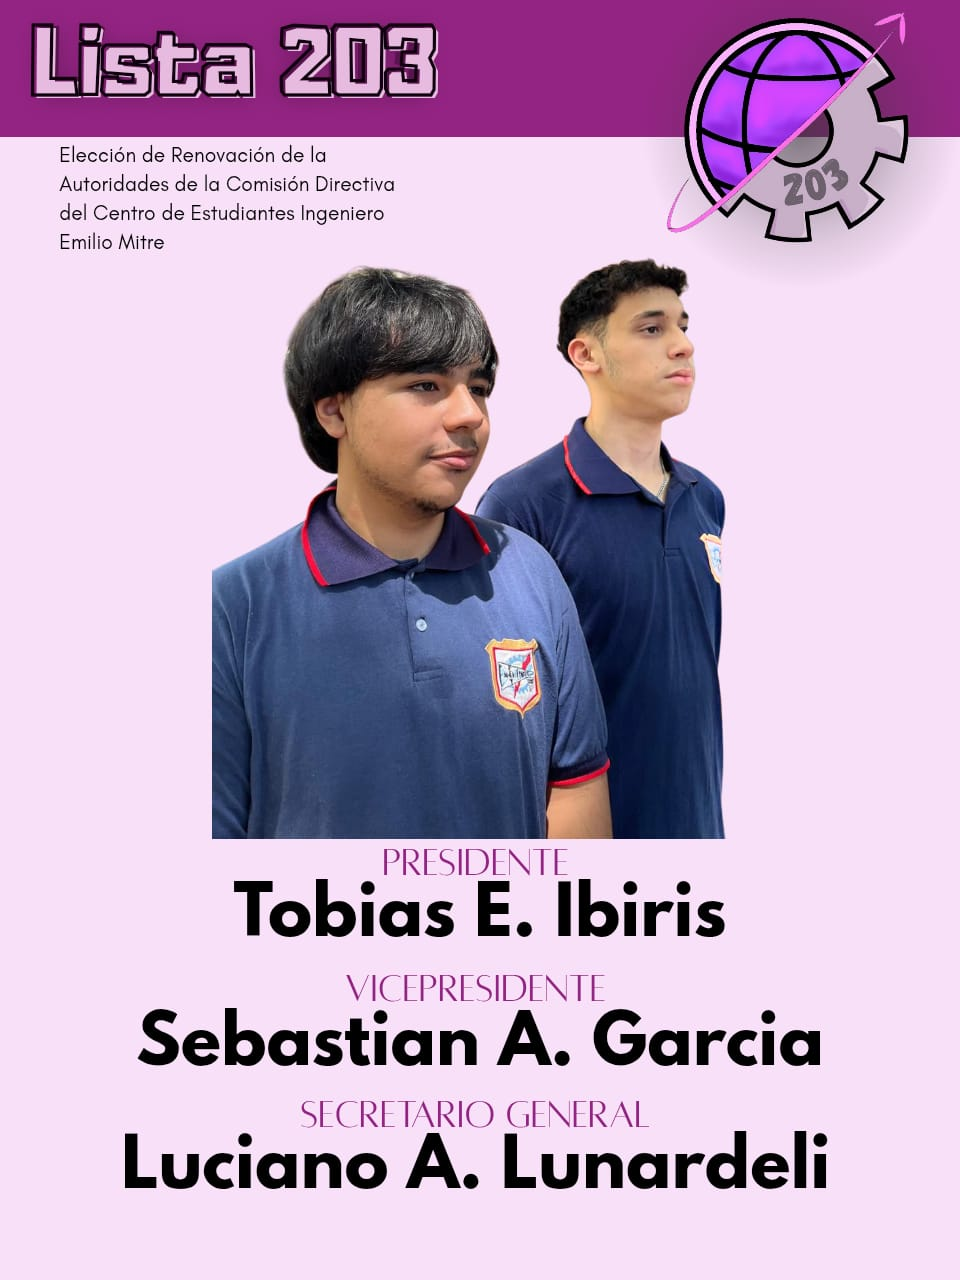
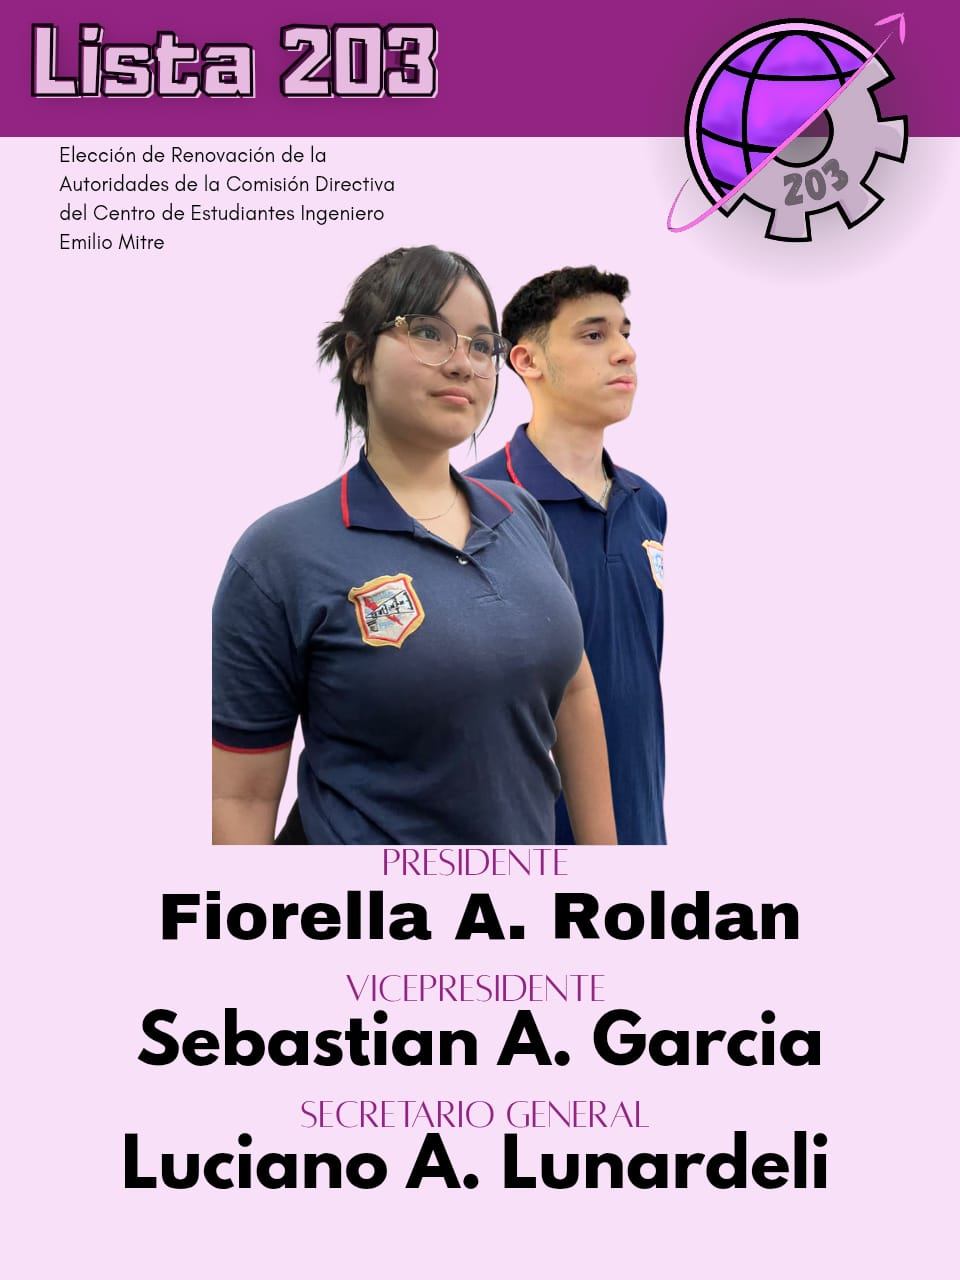
Actualizacion Lista 203

Changed region(s): [[0.1562, 0.1875, 0.8438, 0.75]]

diff --git a/elecciones2025/src/resultados.html b/elecciones2025/src/resultados.html
@@ -137,7 +137,7 @@
                   <span class="result-votes" id="votes-lista2">0 votos</span>
                 </div>
                 <div class="result-candidates">
-                  <p class="result-president">PRESIDENTE: Tobias E. Ibiris</p>
+                  <p class="result-president">PRESIDENTE: Fiorella A. Roldan</p>
                   <p class="result-vicepresident">VICEPRESIDENTE: Sebastian A. Garcia</p>
                 </div>
                 <div class="result-bar">

diff --git a/elecciones2025/candidatos.html b/elecciones2025/candidatos.html
@@ -1039,7 +1039,7 @@
           slogan: "",
           mainCandidates: {
             president: {
-              name: "Tobias E. Ibiris",
+              name: "Fiorella A. Roldan",
               role: "Presidente",
               photo: "",
             },
